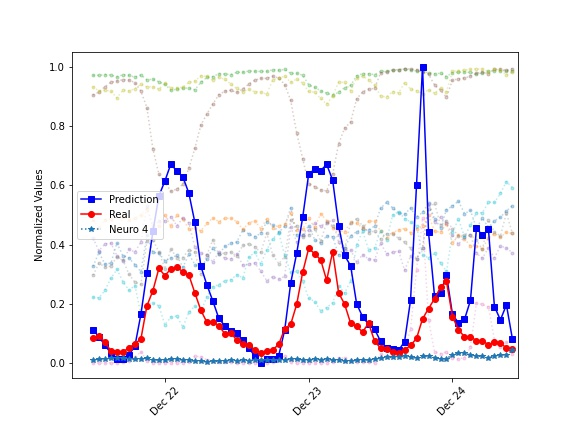
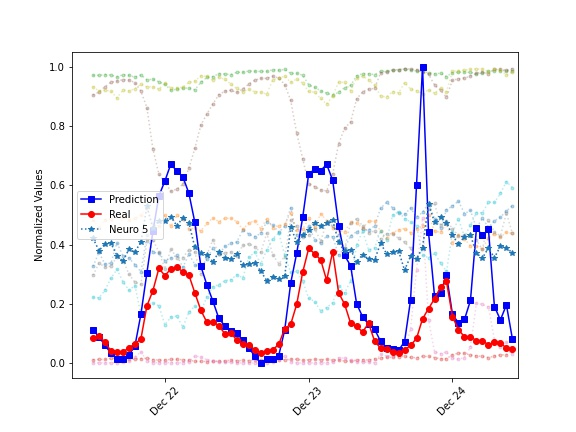
11050849

diff --git a/深度学习笔记.md b/深度学习笔记.md
@@ -1001,8 +1001,8 @@
       ax.plot((predict - min(predict)) / (max(predict) - min(predict)),'bs-',label='Prediction')
       # r红色 o圆圈 -线,cnt实际情况
       ax.plot((subtargets - min(predict)) / (max(predict) - min(predict)),'ro-',label='Real')
-      #:虚线 *五角星 隐藏层第4个神经元输出值
-      ax.plot(results[:, 3],':*',alpha=1, label='Neuro 4')
+      #:虚线 *五角星 隐藏层第5个神经元输出值
+      ax.plot(results[:, 4],':*',alpha=1, label='Neuro 5')
       
       # set_xlim设置横轴范围
       ax.set_xlim(right=len(predict))
@@ -1019,7 +1019,184 @@
       fig.savefig("3-12.jpg")
       ```
 
-      ![]()
+      ![](.\3-12.jpg)
+
+      可以发现，4号神经元的输出曲线与真实输出曲线比较接近。因此，可以认为该神经元对提高预测准确性有更高的贡献。
+
+      同时，我们还想知道Neuro 5神经元表现较好的原因以及它的激活是由谁决定的。进一步分析它的影响因素，可以知道是从输入层指向它的权重。
+
+      对权重进行可视化
+
+      输出神经网络所有的参数
+
+      ```python
+      for para in neu.named_parameters():
+          print(para) 
+      #由显示可以看出，每个list是所有输入层节点到单个隐藏层节点的权重
+      ('0.weight', Parameter containing:
+      tensor([[-2.1517e-01, -4.0614e-02, -1.0516e-01,  5.4308e-02, -1.1437e-01,
+               -6.2382e-02,  7.6552e-02,  5.8724e-02,  1.6933e-01,  6.4778e-02,
+               -1.0376e-03,  1.1390e-01,  5.9447e-02,  1.9477e-02,  9.5131e-02,
+                7.1202e-03, -3.4932e-03,  1.8305e-02,  1.5940e-01, -3.6335e-02,
+               -9.0728e-02, -5.4818e-03,  1.8764e-02, -1.2173e-01, -1.5531e-01,
+                2.9141e-02,  1.1026e-01,  6.3001e-03, -5.6181e-02, -2.1444e-03,
+                2.0125e-02,  3.7873e-03, -9.8517e-02, -2.6571e-02,  2.8248e-01,
+               -1.0817e-02,  3.3487e-02,  2.3034e-01,  8.3346e-02,  1.3844e-01,
+                7.7592e-02,  1.2086e-01, -1.8834e-01, -1.1458e-01, -9.3430e-02,
+               -1.1976e-01, -1.1405e-01,  6.5605e-04, -3.8784e-02, -4.9509e-02,
+                8.3201e-02,  1.4002e-02,  8.9738e-02, -1.0683e-01,  9.2824e-02,
+               -9.4244e-02],
+              [-4.5748e-02, -5.6792e-02,  3.4704e-03, -8.0855e-02,  8.0398e-03,
+               -8.4377e-02, -7.2572e-02,  1.2197e-01, -1.2841e-02, -4.6603e-02,
+               -3.4122e-02, -6.0449e-02, -5.5149e-02,  1.1901e-01,  2.2428e-03,
+               -5.9819e-03,  1.8554e-02, -3.5701e-02, -6.2146e-02,  2.8831e-02,
+                1.0577e-01,  3.2351e-03, -3.5365e-02,  9.5441e-03, -9.0695e-02,
+                1.6664e-02, -8.1705e-02,  2.3343e-02,  5.9412e-02, -6.8365e-02,
+                9.0864e-02,  2.3068e-02,  4.9710e-02,  8.5133e-02,  1.9855e-01,
+               -1.4844e-02, -5.8998e-02,  4.5605e-02, -9.2452e-02,  5.2184e-02,
+               -1.4754e-02, -1.1379e-01, -8.7882e-02, -1.2133e-01,  2.7798e-03,
+                8.9572e-02,  4.5472e-02,  8.7699e-02,  1.0058e-01,  2.3036e-02,
+                5.2959e-03,  2.3517e-02, -1.8909e-02,  6.5946e-02,  1.0925e-01,
+                1.2119e-02],
+              [-3.8906e-02,  2.5722e-01, -1.7514e+00,  1.2741e-01,  8.8538e-02,
+                4.8992e-01,  2.7472e-02, -4.5769e-02, -2.9506e-02,  1.1365e-01,
+                3.0334e-01,  2.5514e-01,  4.0342e-02,  2.1697e-01,  2.1132e-01,
+                1.5857e-01, -1.0447e-01, -1.7504e-01, -5.4133e-02, -1.1488e-01,
+                2.6780e-01, -2.0297e-02, -5.0323e-02,  7.1371e-03,  3.4310e-02,
+                1.6122e-01,  2.4689e-01,  2.9974e-01,  2.6373e-01,  2.5165e-01,
+                3.2716e-01,  2.8187e-01,  8.1486e-02,  1.8649e-01, -1.6147e-01,
+               -6.5835e-02, -5.9280e-02, -2.1905e-01, -1.9243e-01, -1.6769e-01,
+               -1.7760e-01, -2.9353e-01, -4.6459e-01, -3.7805e-01, -1.1472e-01,
+                1.1463e-01,  1.8257e-01,  1.4568e-01,  1.1474e-01,  2.3399e-02,
+                2.6706e-01,  2.7155e-01,  2.8522e-01,  1.3846e-01, -7.1238e-02,
+               -2.4729e-01],
+              [ 3.3648e-01, -6.3774e-01,  1.4335e+00,  5.5639e-01,  2.7001e-04,
+               -8.2939e-01, -3.4847e-01, -6.4637e-02, -2.0774e-01, -3.2223e-01,
+               -3.8961e-01, -2.1898e-01, -5.5440e-02, -2.2807e-01, -7.8723e-02,
+               -4.8461e-01, -1.9355e-01,  3.7654e-02,  1.4289e-01, -8.0443e-02,
+                1.3063e-01,  7.4473e-02, -4.7923e-02, -3.3240e-01, -2.2588e-01,
+                3.9526e-02,  1.4570e-01,  1.3986e-01,  2.6883e-01,  3.3923e-01,
+                2.8692e-01,  1.4695e-01,  2.2072e-01,  3.4411e-01,  3.3423e-01,
+                6.6300e-03, -1.1355e-01, -1.1812e-01, -5.0629e-02, -5.0916e-02,
+               -7.2028e-02, -2.6627e-01, -5.6601e-01, -6.2902e-01, -6.4426e-01,
+               -5.7755e-01, -4.1909e-01, -2.4197e-01,  2.4454e-02, -1.6738e-01,
+               -5.9531e-02, -9.3488e-02, -1.6436e-01, -6.9497e-02,  5.1467e-02,
+               -6.7463e-02],
+              [ 5.8546e-02, -1.7747e-01,  6.0087e-01, -5.2252e-04,  2.4187e-02,
+               -2.8056e-02, -6.0695e-02,  2.3104e-01,  1.6305e-01,  1.0924e-01,
+                8.8236e-02,  5.9427e-03,  4.2962e-02,  1.0267e-01,  1.3196e-01,
+               -1.0830e-01, -8.8868e-02,  2.9426e-01,  6.0332e-02,  2.2017e-02,
+                8.6852e-03, -7.6501e-02, -1.0688e-01, -2.0578e-01, -1.3539e-02,
+                2.5629e-02, -1.2307e-01, -4.1725e-02, -1.8924e-02, -1.4393e-01,
+               -2.7134e-01, -9.7338e-02, -1.3694e-01, -3.3830e-02,  4.9438e-01,
+                2.1309e-01,  2.4636e-01,  1.2325e-01,  1.5591e-01,  3.2296e-02,
+                1.1432e-01,  1.3553e-01, -1.0793e-01, -1.6454e-01, -1.0692e-01,
+               -1.6603e-01,  8.9779e-03, -7.9099e-02, -6.8704e-02, -6.0136e-02,
+                1.4625e-01,  8.0313e-02, -4.8874e-02,  5.5786e-02,  8.1427e-02,
+               -2.2995e-02],
+              [-1.1119e+00, -9.7381e-01, -3.7606e-01,  1.5340e-01,  5.6004e-02,
+                7.9537e-01,  5.1514e-01,  6.7084e-01,  3.6069e-01,  4.6672e-01,
+                6.3586e-01,  1.2361e+00,  5.4458e-02,  4.4888e-01,  3.4623e-01,
+               -7.8211e-02,  1.7609e-01,  2.5912e-01,  2.9812e-01,  2.3110e-01,
+                2.0134e-01, -6.1154e-02, -6.4564e-03,  3.1285e-01,  3.6553e-02,
+                4.4154e-01,  6.3237e-01,  8.4420e-01,  1.1231e+00,  1.3096e+00,
+                1.3350e+00,  1.3169e+00,  1.1446e+00,  5.8702e-01,  8.7077e-02,
+               -7.6181e-01, -1.0734e+00, -1.2484e+00, -1.2376e+00, -1.2156e+00,
+               -1.1791e+00, -9.7212e-01, -6.4376e-01, -3.4615e-01, -1.1356e-01,
+                2.5381e-01,  4.5731e-01,  6.0883e-01,  6.8720e-01, -8.3891e-01,
+                6.2651e-01,  8.1837e-01,  8.9260e-01,  9.1260e-01,  3.2260e-01,
+               -9.8295e-01],
+              [ 9.1535e-01, -1.8074e+00,  1.8815e-01, -6.2041e-02, -1.2599e-02,
+               -7.4529e-01, -5.4648e-01, -5.8447e-01, -4.5230e-01, -3.9348e-01,
+               -4.8381e-01, -1.0659e+00, -2.9770e-01, -5.1499e-01, -4.2147e-01,
+               -2.4996e-01, -2.5094e-01, -2.4765e-01, -1.1093e-01, -8.9495e-02,
+               -3.9652e-02,  3.5043e-02, -2.2566e-02, -2.3263e-01, -1.6356e-01,
+               -1.1322e+00, -1.3055e+00, -1.2845e+00, -1.0519e+00, -9.2288e-01,
+               -5.4272e-01,  3.5072e-01,  1.5925e+00,  2.3092e+00,  6.5942e-01,
+               -8.3098e-01, -1.0067e+00, -8.9203e-01, -1.0039e+00, -1.1965e+00,
+               -8.5223e-01,  2.2133e-01,  1.7310e+00,  1.6965e+00,  1.0636e+00,
+                6.4949e-01,  2.6775e-01, -4.7165e-02, -3.7327e-01, -2.8686e+00,
+                6.4927e-01,  6.9670e-01,  7.0795e-01,  7.1478e-01,  3.1973e-01,
+               -2.5693e+00],
+              [-7.3934e-02,  7.0198e-02,  2.2590e-01,  4.9484e-02, -1.0391e-01,
+               -1.6684e-01, -1.1900e-02, -2.3277e-02,  6.3789e-02, -1.2004e-02,
+                1.4248e-01, -6.8000e-02, -2.2170e-02,  6.0601e-02,  5.4319e-02,
+                5.3706e-03,  3.6641e-02,  4.4790e-02,  5.2938e-03, -3.6688e-02,
+                3.3774e-02,  1.2327e-02, -1.7138e-01, -1.1597e-02,  6.7697e-02,
+               -8.6218e-02, -1.5837e-02, -3.3704e-03, -6.9258e-02, -1.4105e-01,
+                2.5695e-03, -2.0978e-01, -3.4207e-01, -2.1496e-01,  2.4776e-01,
+                2.0992e-01,  6.4422e-02,  5.0799e-02,  1.4712e-01,  3.2227e-02,
+                1.4373e-01,  1.5062e-01,  6.3096e-03, -1.7201e-01,  4.6564e-02,
+                9.5400e-02,  6.6297e-03,  2.8192e-02, -3.6574e-02,  3.1847e-02,
+               -2.9076e-02, -7.6315e-02,  7.6755e-03,  6.6343e-02,  9.9783e-02,
+               -5.2374e-02],
+              [-2.5522e-01,  4.6821e-01, -9.5963e-01,  5.8046e-01,  1.7474e-01,
+                4.1009e-01,  2.7997e-01,  4.3716e-01,  3.1789e-02,  4.4291e-02,
+                2.4212e-01,  9.2161e-01,  2.2880e-03,  2.0859e-01,  4.3318e-02,
+               -5.1349e-02, -9.7250e-02, -4.0511e-02,  1.9764e-01,  1.2849e-01,
+                4.3351e-01,  2.4613e-02,  5.4710e-02,  4.4987e-02, -8.5056e-02,
+               -3.1730e-01, -3.5047e-01, -4.1137e-01, -4.7066e-01, -3.7748e-01,
+               -3.7737e-01, -3.0269e-01, -1.9244e-01, -2.2264e-01, -1.7633e-01,
+               -8.7452e-02,  5.8684e-02,  2.2100e-01,  3.3221e-01,  3.2697e-01,
+                2.8390e-01,  4.8635e-01,  6.0471e-01,  6.6388e-01,  5.3513e-01,
+                4.5366e-01,  3.5571e-01,  1.8685e-01, -3.5974e-02,  4.6679e-01,
+               -1.1762e-01,  1.6446e-01,  1.6282e-01,  8.7484e-02,  1.6215e-01,
+                4.2863e-01],
+              [ 1.7679e-02, -1.7197e-01,  1.1369e-01,  4.6212e-01, -1.0654e-01,
+               -2.3073e-01,  1.8183e-01,  5.7336e-02,  3.0706e-02, -1.4014e-01,
+                5.0070e-02,  3.2003e-02,  7.0526e-02,  6.3089e-02,  3.8743e-02,
+               -5.6618e-02,  2.5570e-02, -4.6891e-02,  5.3802e-02,  2.0393e-03,
+               -4.1424e-02,  1.3109e-03,  1.3134e-01, -1.3910e-01, -9.1821e-02,
+                2.2063e-01,  9.2872e-02,  2.9796e-01,  3.4915e-01,  2.6936e-01,
+                2.6538e-01,  2.0978e-01,  2.9419e-01, -1.1763e-01, -1.7401e-01,
+               -2.1172e-01, -8.9650e-02, -2.0237e-01, -1.7990e-01, -1.4242e-01,
+               -2.7767e-01, -1.2547e-01, -1.4733e-01, -2.0316e-01, -4.9766e-02,
+               -3.6871e-02,  4.7350e-02,  1.1792e-01,  5.1592e-02,  1.6399e-02,
+               -1.1771e-01,  1.4295e-01,  8.6799e-02, -1.0577e-01,  7.2028e-02,
+               -7.2114e-02]], requires_grad=True))
+      ('0.bias', Parameter containing:
+      tensor([-1.5522e-03,  6.9083e-02,  6.7617e-01, -1.0894e+00,  2.1665e-01,
+               2.1052e+00, -2.3456e+00,  1.1926e-01,  1.2289e+00, -2.6396e-02],
+             requires_grad=True))
+      ('2.weight', Parameter containing:
+      tensor([[ 0.7876,  0.4478, -1.7032, -1.8252,  1.1987, -4.3419,  6.1314,  0.9146,
+                2.4574, -0.3667]], requires_grad=True))
+      ('2.bias', Parameter containing:
+      tensor([1.3419], requires_grad=True))
+      
+      ```
+
+      显示隐藏层所有节点到输出层的权重
+
+      ```python
+      dic = dict(neu.named_parameters())
+      weights = dic['2.weight']
+      # 因为weights.data.numpy()是1*1*10的矩阵，取[0]变成1*10的矩阵
+      fig=plt.figure()
+      plt.plot(weights.data.numpy()[0],'o-')
+      plt.xlabel('hidden Neurons')
+      plt.ylabel('hidden-output Weight')
+      fig.savefig("3-13.jpg")
+      ```
+
+      ![](.\3-13.jpg)
+
+      把输入层到隐藏层第5号节点的权重都显示出来
+
+      ```python
+      # 找到了与峰值相应的神经元，把它到输入层的权重输出出来
+      dic = dict(neu.named_parameters())
+      weights = dic['0.weight'][4]
+      fig=plt.figure()
+      plt.plot(weights.data.numpy(),'o-')
+      plt.xlabel('Input Neurons')
+      plt.ylabel('Weight')
+      fig.savefig("3-14.jpg")
+      ```
+
+      ![](.\3-14.jpg)
+
+      
 
 4. 机器也懂得感情-中文情绪分类器
 
